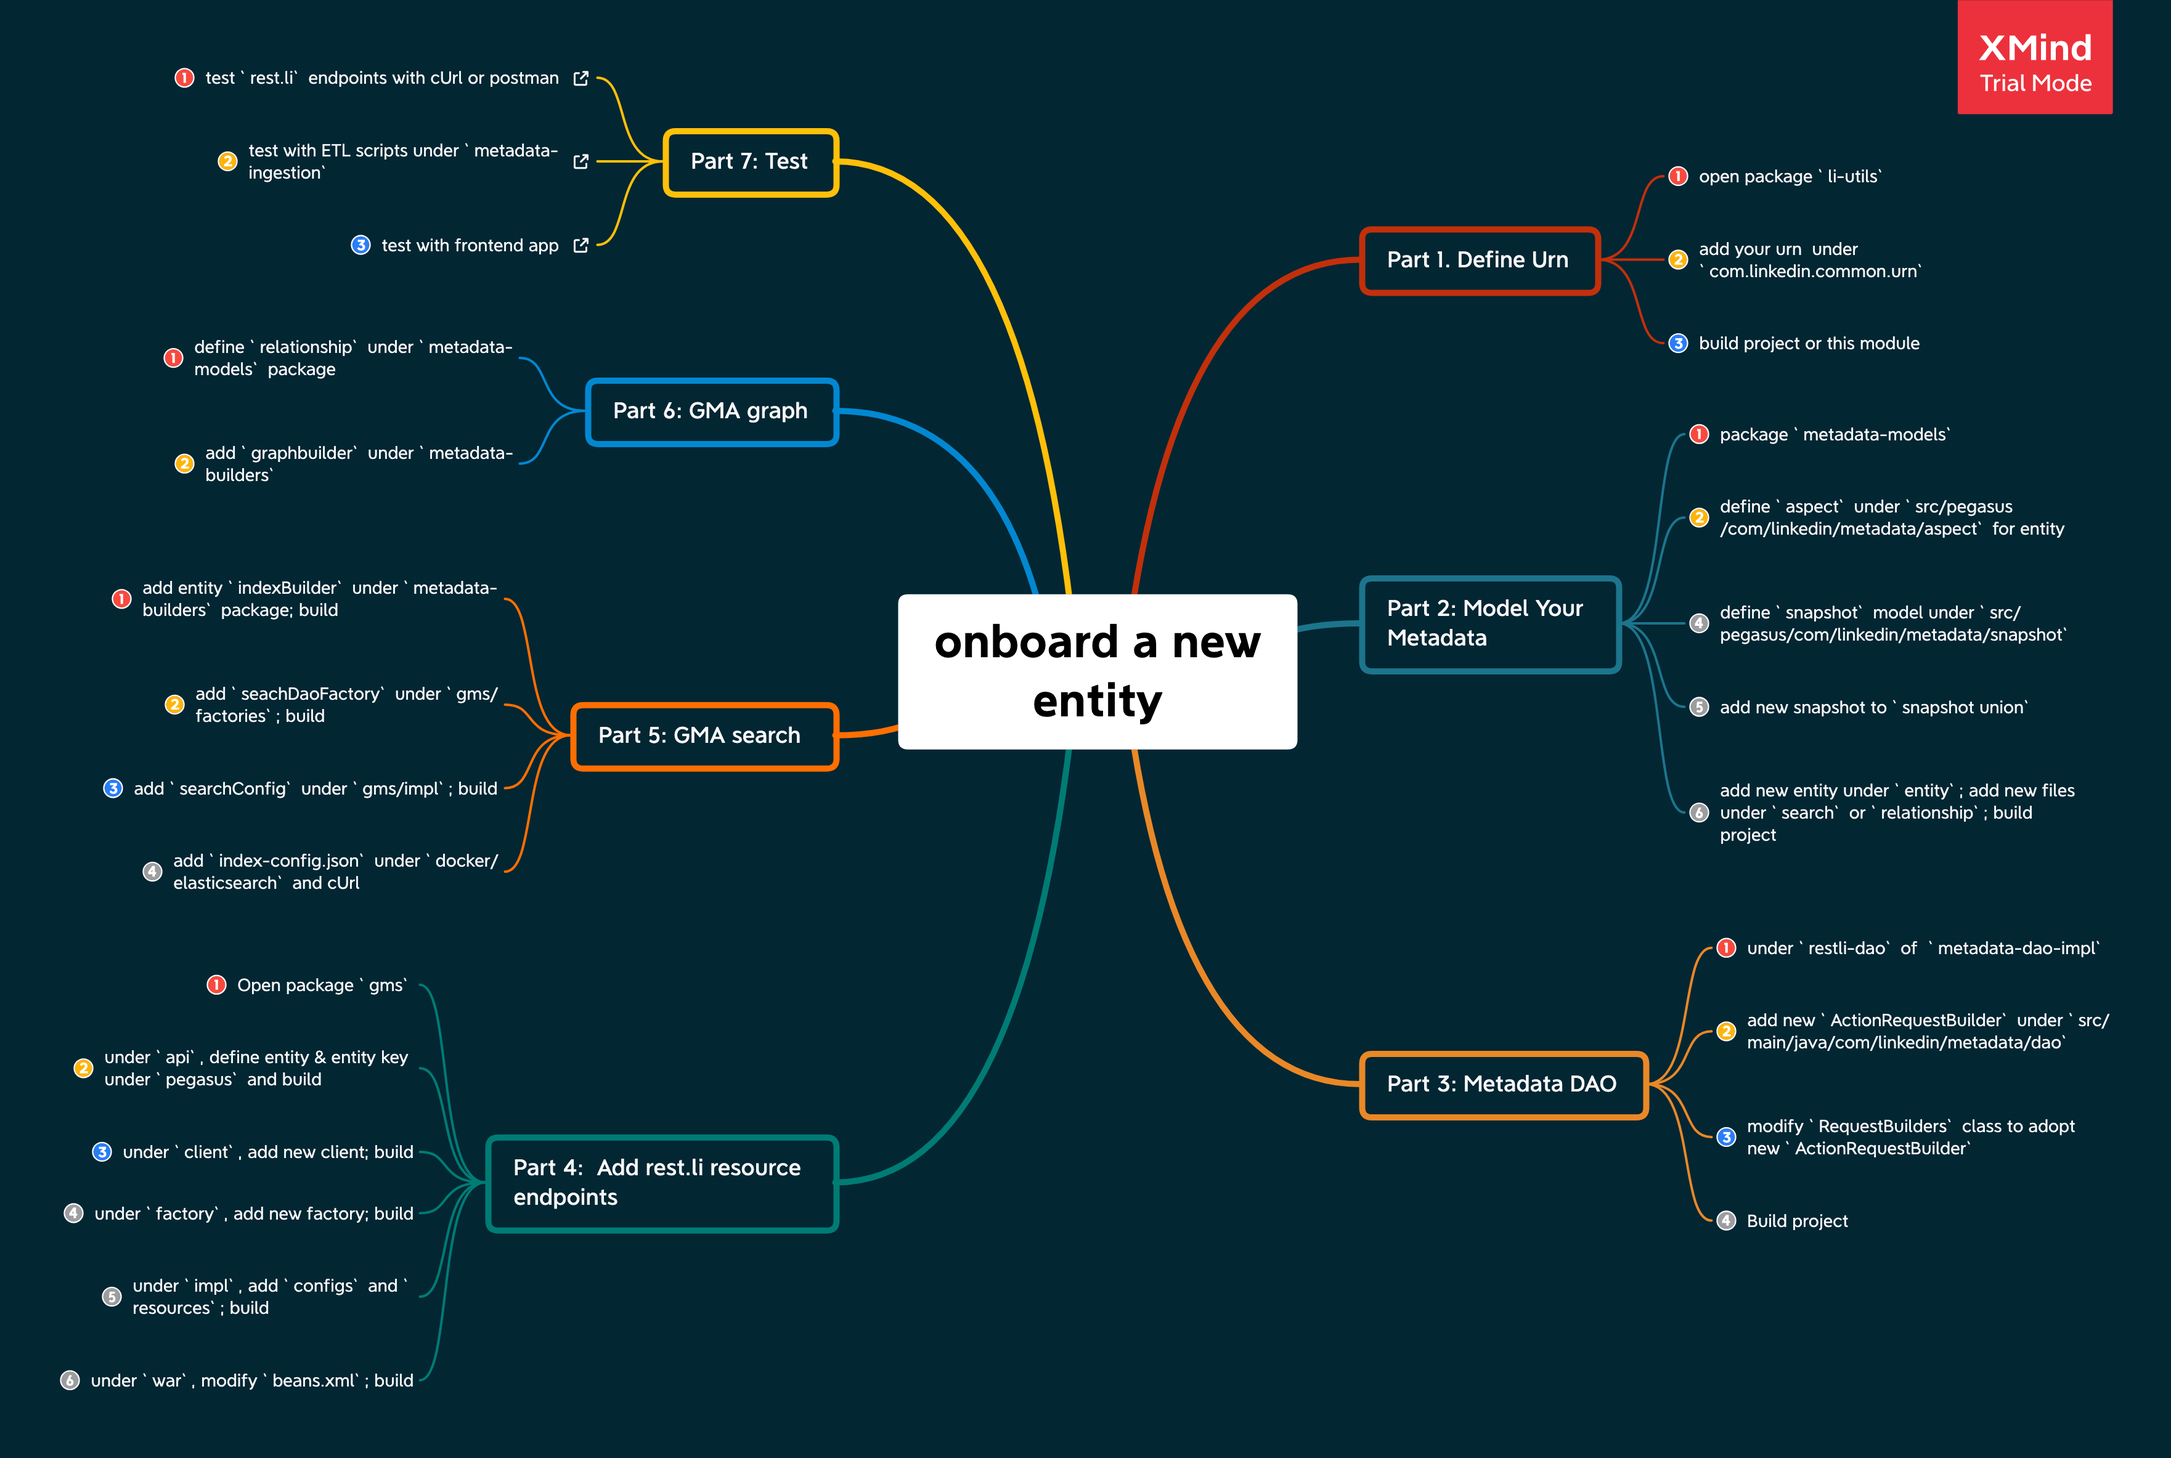
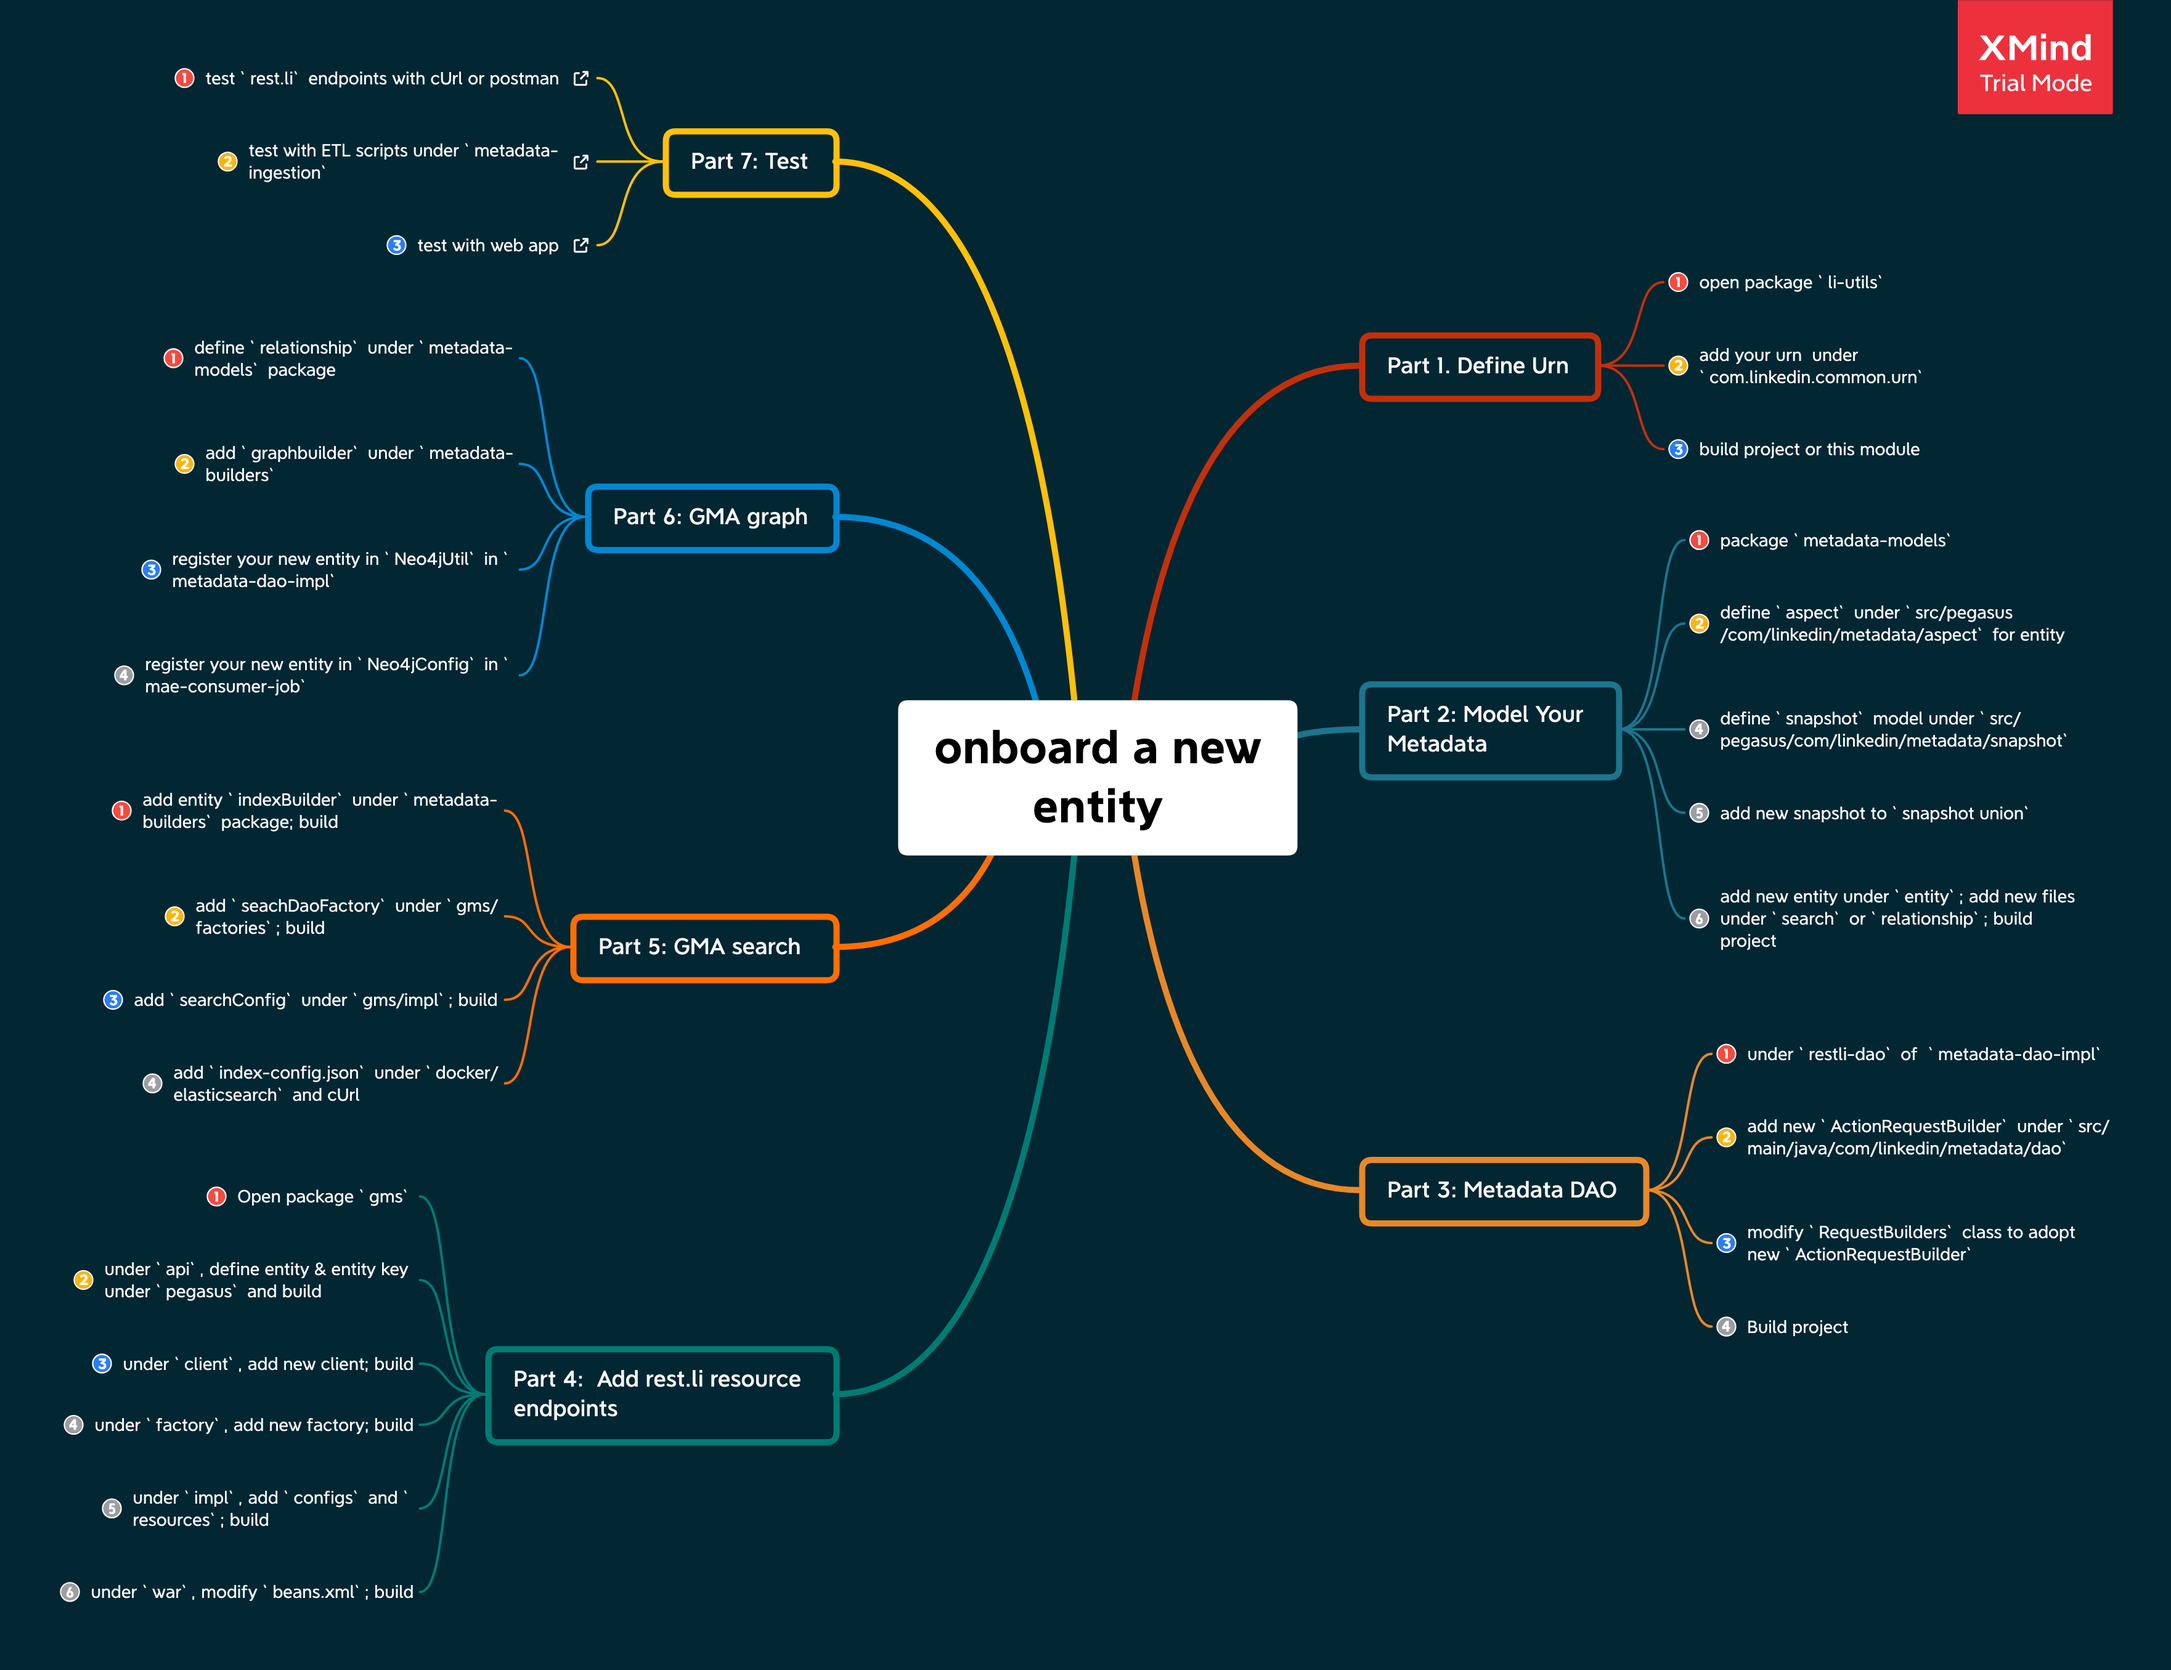
implement data process graph feature; update the document

diff --git a/metadata-builders/src/main/java/com/linkedin/metadata/builders/graph/DataProcessGraphBuilder.java b/metadata-builders/src/main/java/com/linkedin/metadata/builders/graph/DataProcessGraphBuilder.java
@@ -1,0 +1,40 @@
+package com.linkedin.metadata.builders.graph;
+
+import com.linkedin.common.urn.DataProcessUrn;
+import com.linkedin.data.template.RecordTemplate;
+import com.linkedin.metadata.builders.graph.relationship.BaseRelationshipBuilder;
+import com.linkedin.metadata.builders.graph.relationship.OwnedByBuilderFromOwnership;
+import com.linkedin.metadata.entity.DataProcessEntity;
+import com.linkedin.metadata.snapshot.DataProcessSnapshot;
+import java.util.Collections;
+import java.util.HashSet;
+import java.util.List;
+import java.util.Set;
+import javax.annotation.Nonnull;
+
+
+public class DataProcessGraphBuilder extends BaseGraphBuilder<DataProcessSnapshot> {
+  private static final Set<BaseRelationshipBuilder> RELATIONSHIP_BUILDERS =
+    Collections.unmodifiableSet(new HashSet<BaseRelationshipBuilder>() {
+      {
+        add(new OwnedByBuilderFromOwnership());
+      }
+    });
+  public DataProcessGraphBuilder() {
+    super(DataProcessSnapshot.class, RELATIONSHIP_BUILDERS);
+  }
+
+  @Nonnull
+  @Override
+  protected List<? extends RecordTemplate> buildEntities(@Nonnull DataProcessSnapshot snapshot) {
+    final DataProcessUrn urn = snapshot.getUrn();
+    final DataProcessEntity entity = new DataProcessEntity().setUrn(urn)
+        .setName(urn.getNameEntity())
+        .setOrchestrator(urn.getOrchestrator())
+        .setOrigin(urn.getOriginEntity());
+
+    setRemovedProperty(snapshot, entity);
+
+    return Collections.singletonList(entity);
+  }
+}

diff --git a/metadata-dao-impl/neo4j-dao/src/main/java/com/linkedin/metadata/dao/Neo4jUtil.java b/metadata-dao-impl/neo4j-dao/src/main/java/com/linkedin/metadata/dao/Neo4jUtil.java
@@ -1,6 +1,7 @@
 package com.linkedin.metadata.dao;
 
 import com.linkedin.common.urn.CorpGroupUrn;
+import com.linkedin.common.urn.DataProcessUrn;
 import com.linkedin.common.urn.DatasetUrn;
 import com.linkedin.common.urn.Urn;
 import com.linkedin.common.urn.CorpuserUrn;
@@ -10,6 +11,7 @@ import com.linkedin.metadata.dao.exception.ModelConversionException;
 import com.linkedin.metadata.dao.utils.RecordUtils;
 import com.linkedin.metadata.entity.CorpGroupEntity;
 import com.linkedin.metadata.entity.CorpUserEntity;
+import com.linkedin.metadata.entity.DataProcessEntity;
 import com.linkedin.metadata.entity.DatasetEntity;
 import com.linkedin.metadata.query.Condition;
 import com.linkedin.metadata.query.Criterion;
@@ -44,6 +46,7 @@ public class Neo4jUtil {
     {
       put(CorpuserUrn.ENTITY_TYPE, getType(CorpUserEntity.class));
       put(CorpGroupUrn.ENTITY_TYPE, getType(CorpGroupEntity.class));
+      put(DataProcessUrn.ENTITY_TYPE, getType(DataProcessEntity.class));
       put(DatasetUrn.ENTITY_TYPE, getType(DatasetEntity.class));
 
       // For unit testing only

diff --git a/metadata-builders/src/main/java/com/linkedin/metadata/builders/graph/RegisteredGraphBuilders.java b/metadata-builders/src/main/java/com/linkedin/metadata/builders/graph/RegisteredGraphBuilders.java
@@ -21,6 +21,7 @@ public class RegisteredGraphBuilders {
       Collections.unmodifiableList(new LinkedList<BaseGraphBuilder>() {
         {
           add(new CorpUserGraphBuilder());
+          add(new DataProcessGraphBuilder());
           add(new DatasetGraphBuilder());
         }
       });
